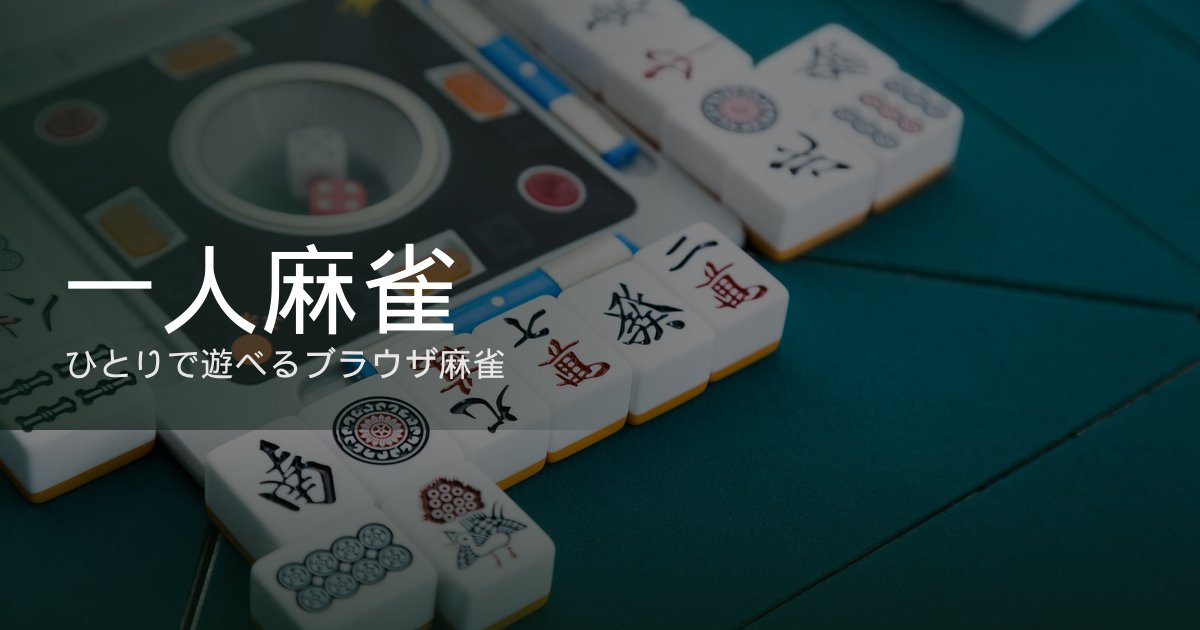
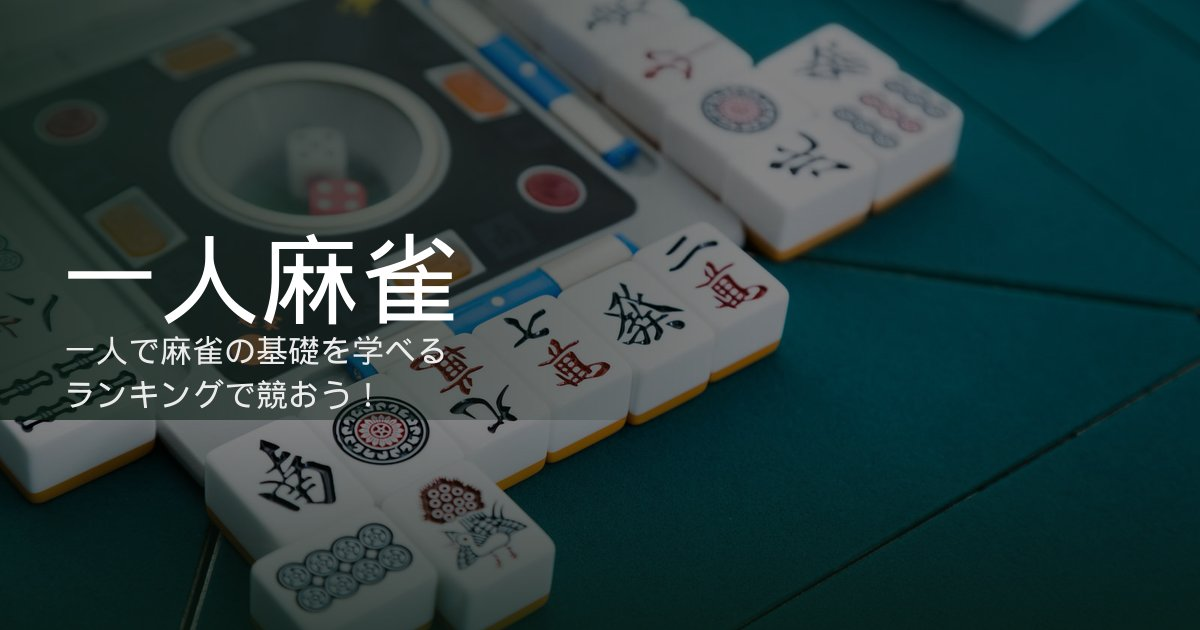
Update OGP description and image copy
Reflect the tutorial/ranking pitch in the meta description and
the OGP image tagline.

Changed region(s): [[0.0, 0.3619, 0.4317, 0.6937], [0.0308, 0.4222, 0.1233, 0.4825], [0.1542, 0.3619, 0.185, 0.3921]]

diff --git a/app/root.tsx b/app/root.tsx
@@ -14,7 +14,7 @@ import "./app.css";
 const SITE_URL = "https://mahjong.utcode.net";
 const SITE_TITLE = "一人麻雀";
 const SITE_DESCRIPTION =
-	"ひとりで遊べるブラウザ麻雀。ルールを学べるチュートリアル付き。";
+	"一人麻雀で麻雀の基礎が学べる！ランキングで他のプレイヤーと競おう！";
 const OGP_IMAGE_URL = `${SITE_URL}/ogp.jpg`;
 
 export const meta: Route.MetaFunction = () => [
